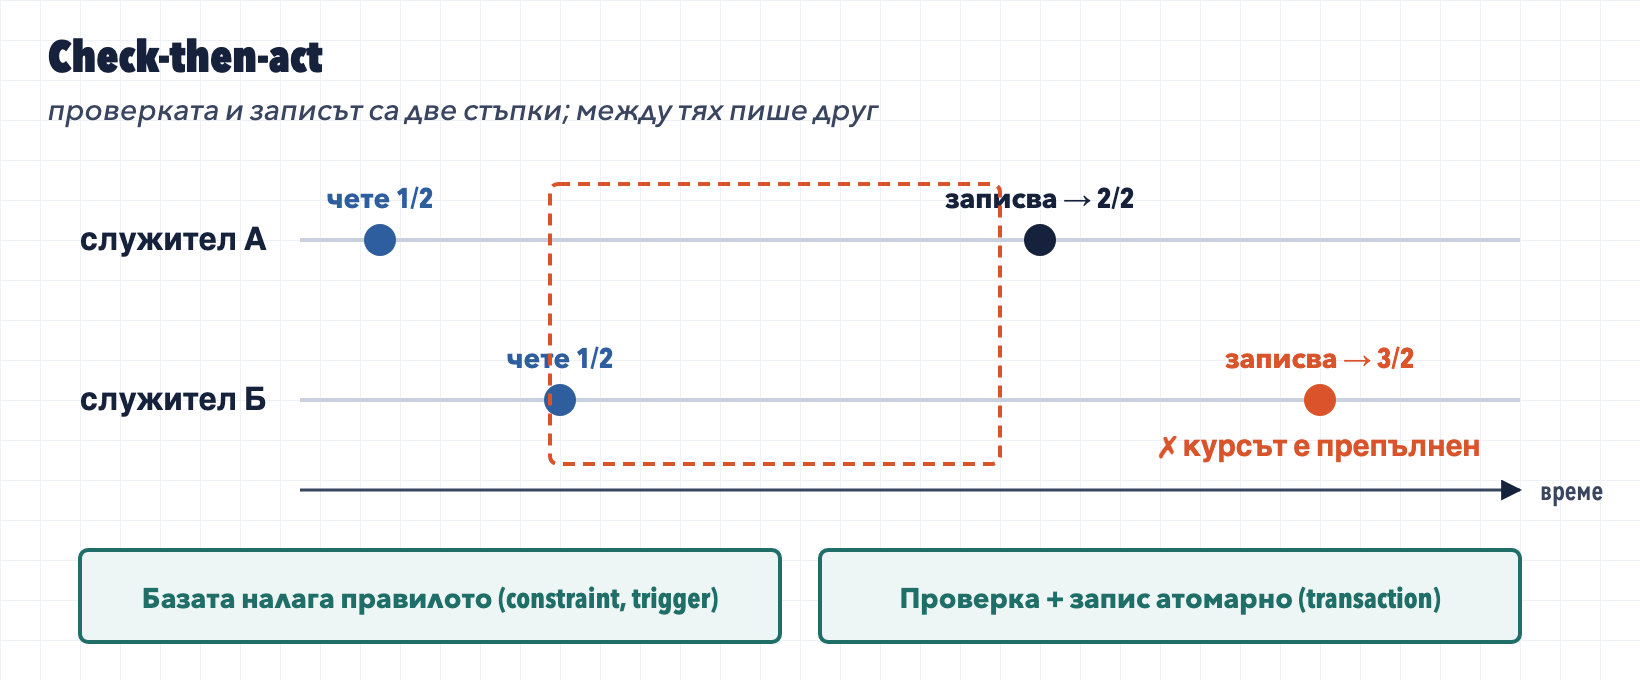
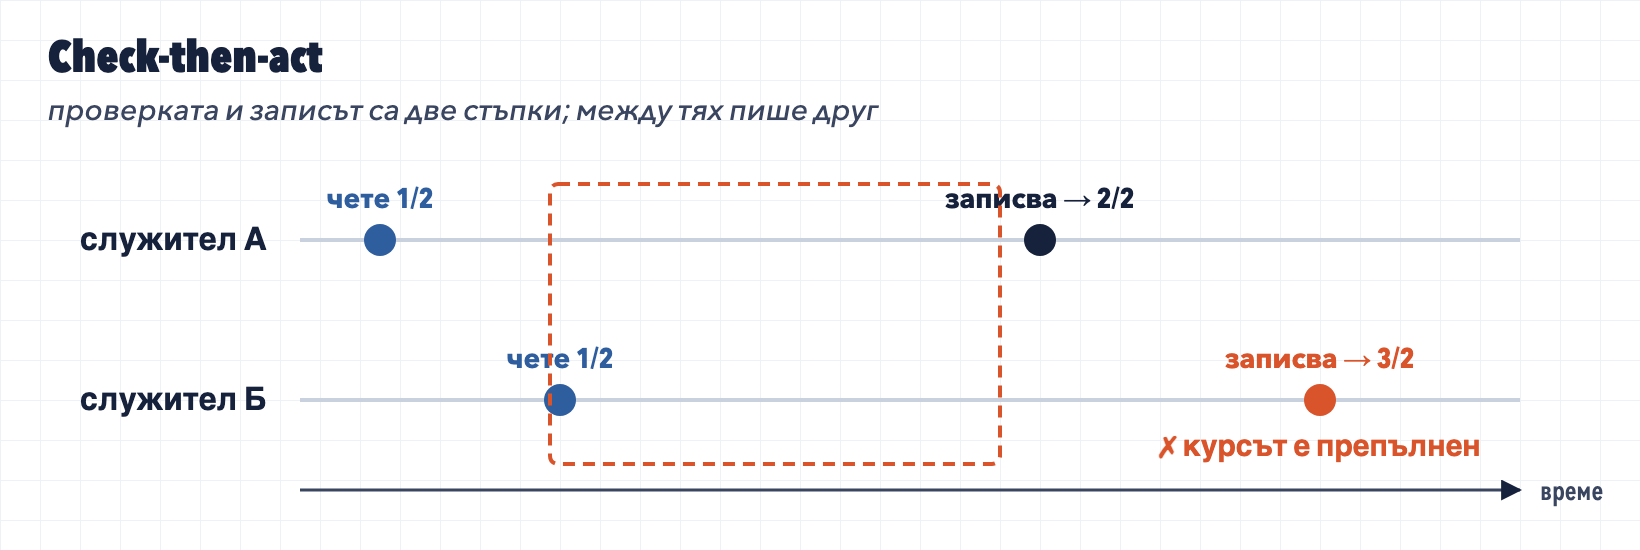
Week 1 starts from the copied branch; simpler check-then-act diagram

Changed region(s): [[0.0311, 0.4945, 0.9951, 0.9582], [0.0311, 0.0618, 0.9329, 0.4636]]

diff --git a/README.md b/README.md
@@ -5,7 +5,7 @@
 ## Веднъж в началото
 
 1. Горе вдясно: **Use this template** → **Create a new repository**.
-2. Собственик: вашият профил. Име: `sa-labs-fnXXXXX`. Видимост: **Private**. Не отбелязвайте „Include all branches“.
+2. Собственик: вашият профил. Име: `sa-labs-fnXXXXX`. Видимост: **Private**. Отбележете „Include all branches“.
 3. **Settings** → **Collaborators** → **Add people** → `igergow`.
 4. В новото ви хранилище: **Code** → **Codespaces** → **Create codespace on main**.
 5. В Moodle, в заданието „Хранилище за упражненията“, поставете линка към хранилището.
@@ -14,15 +14,16 @@
 
 ## Всяка седмица
 
-В терминала на Codespace-а (за седмица 2 сменете `01` с `02` и т.н.):
+Седмица 1 вече е в хранилището ви: `git switch week-01` и `cd week-01`.
+
+От седмица 2 нататък, в терминала на Codespace-а (за седмица 3 сменете `02` с `03` и т.н.):
 
 ```
 git remote add upstream https://github.com/tu-sofia-lessons/software-architecture-labs.git   # само първия път
 git fetch upstream
-git switch -c week-01 upstream/week-01
-git push -u origin week-01
-cd week-01
-python ladder.py
+git switch -c week-02 upstream/week-02
+git push -u origin week-02
+cd week-02
 ```
 
 Работите в клона на седмицата и пазите с `git add`, `git commit`, `git push`. Седмиците са независими: нищо не се пренася от предишната.
@@ -40,7 +41,7 @@ The code for each lab is in its own branch: `week-01`, `week-02` and so on. A br
 ## Once, at the start
 
 1. Top right: **Use this template** → **Create a new repository**.
-2. Owner: your account. Name: `sa-labs-fnXXXXX`. Visibility: **Private**. Do not tick "Include all branches".
+2. Owner: your account. Name: `sa-labs-fnXXXXX`. Visibility: **Private**. Tick "Include all branches".
 3. **Settings** → **Collaborators** → **Add people** → `igergow`.
 4. In your new repository: **Code** → **Codespaces** → **Create codespace on main**.
 5. In Moodle, in the assignment "Lab repository", paste the link to your repository.
@@ -49,15 +50,16 @@ Nothing to install: only Python is needed, and the Codespace already has it.
 
 ## Every week
 
-In the Codespace terminal (for week 2 change `01` to `02` and so on):
+Week 1 is already in your repository: `git switch week-01` and `cd week-01`.
+
+From week 2 on, in the Codespace terminal (for week 3 change `02` to `03` and so on):
 
 ```
 git remote add upstream https://github.com/tu-sofia-lessons/software-architecture-labs.git   # first time only
 git fetch upstream
-git switch -c week-01 upstream/week-01
-git push -u origin week-01
-cd week-01
-python ladder.py
+git switch -c week-02 upstream/week-02
+git push -u origin week-02
+cd week-02
 ```
 
 You work in the week's branch and save with `git add`, `git commit`, `git push`. The weeks are independent: nothing carries over from the previous one.
